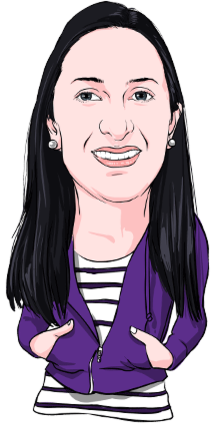
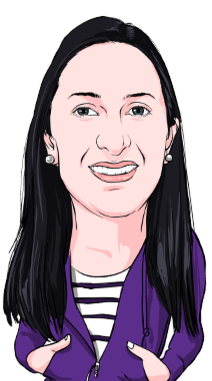
Team section changes: - add missing caricatures - all caricatures height cropped to get rid off white space at the bottom - change css classes to be more generic and used acrossed all project stories

diff --git a/source/assets/stylesheets/styles/_project_team.scss b/source/assets/stylesheets/styles/_project_team.scss
@@ -1,4 +1,4 @@
-.sh24-team {
+.project-team {
   background: $team-background-color;
   overflow: auto;
   padding: 20px 20px 0;
@@ -9,7 +9,7 @@
 
 }
 
-.sh24-team__title {
+.project-team__title {
   color: $tile-title-color;
   font-size: 1.7em;
   font-weight: 100;
@@ -27,13 +27,19 @@
   }
 }
 
-.sh24-team__headshot-container {
+.project-team__headshot-container {
   display: block;
   float: left;
   width: 20%;
 }
 
-.sh24-team__headshot {
+.project-team__headshot-container--6 {
+  @extend .project-team__headshot-container;
+  padding-left: 10px;
+  width: 15%;
+}
+
+.project-team__headshot {
   display: block;
   width: 100%;
 }
